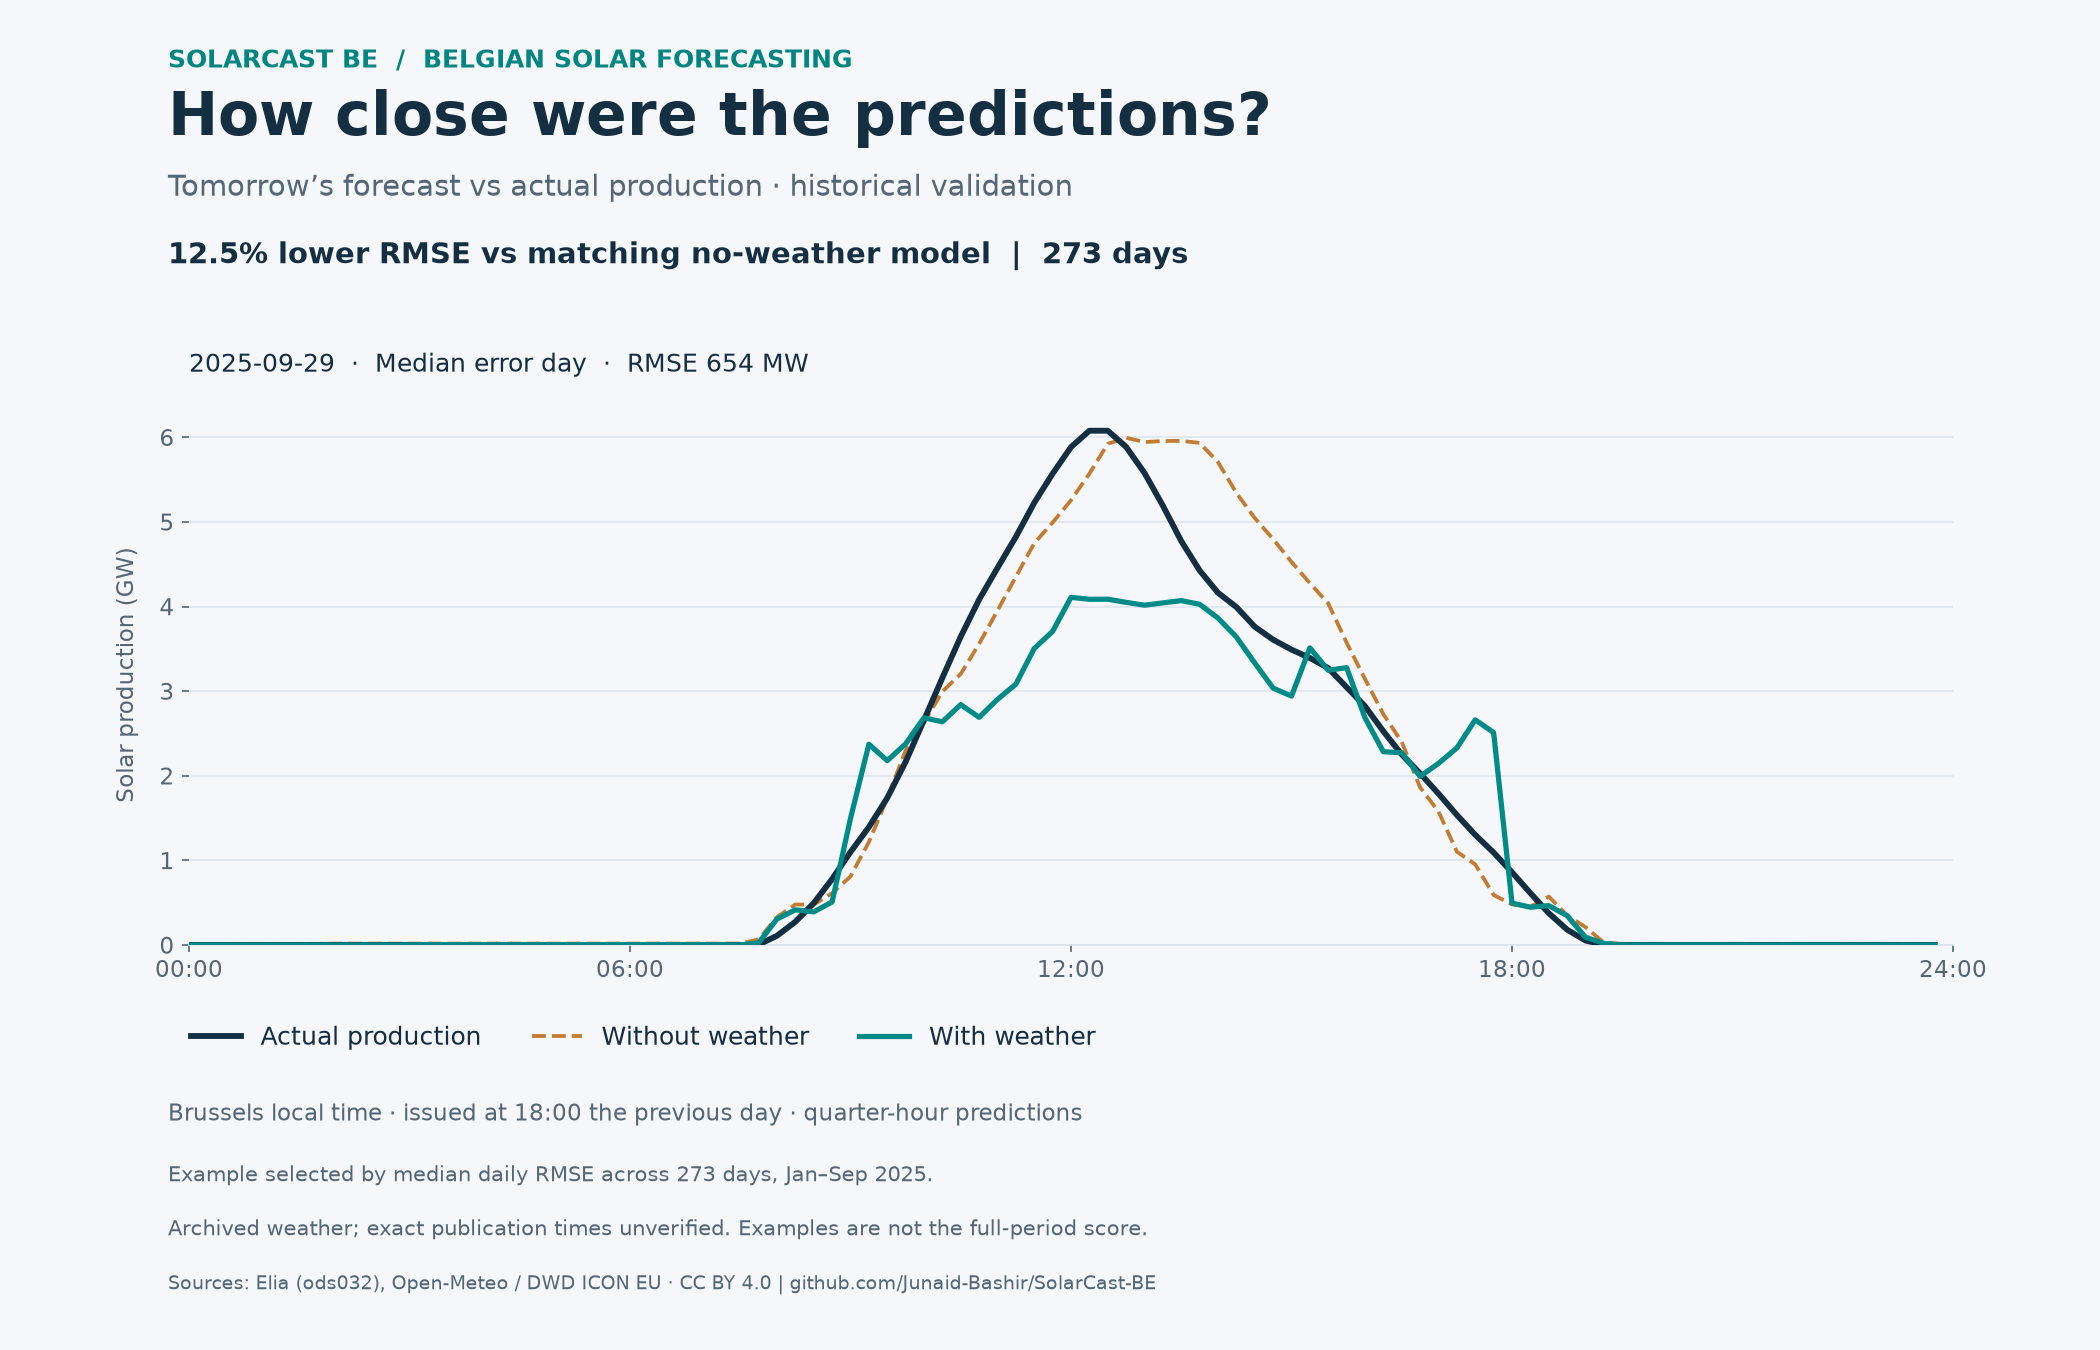
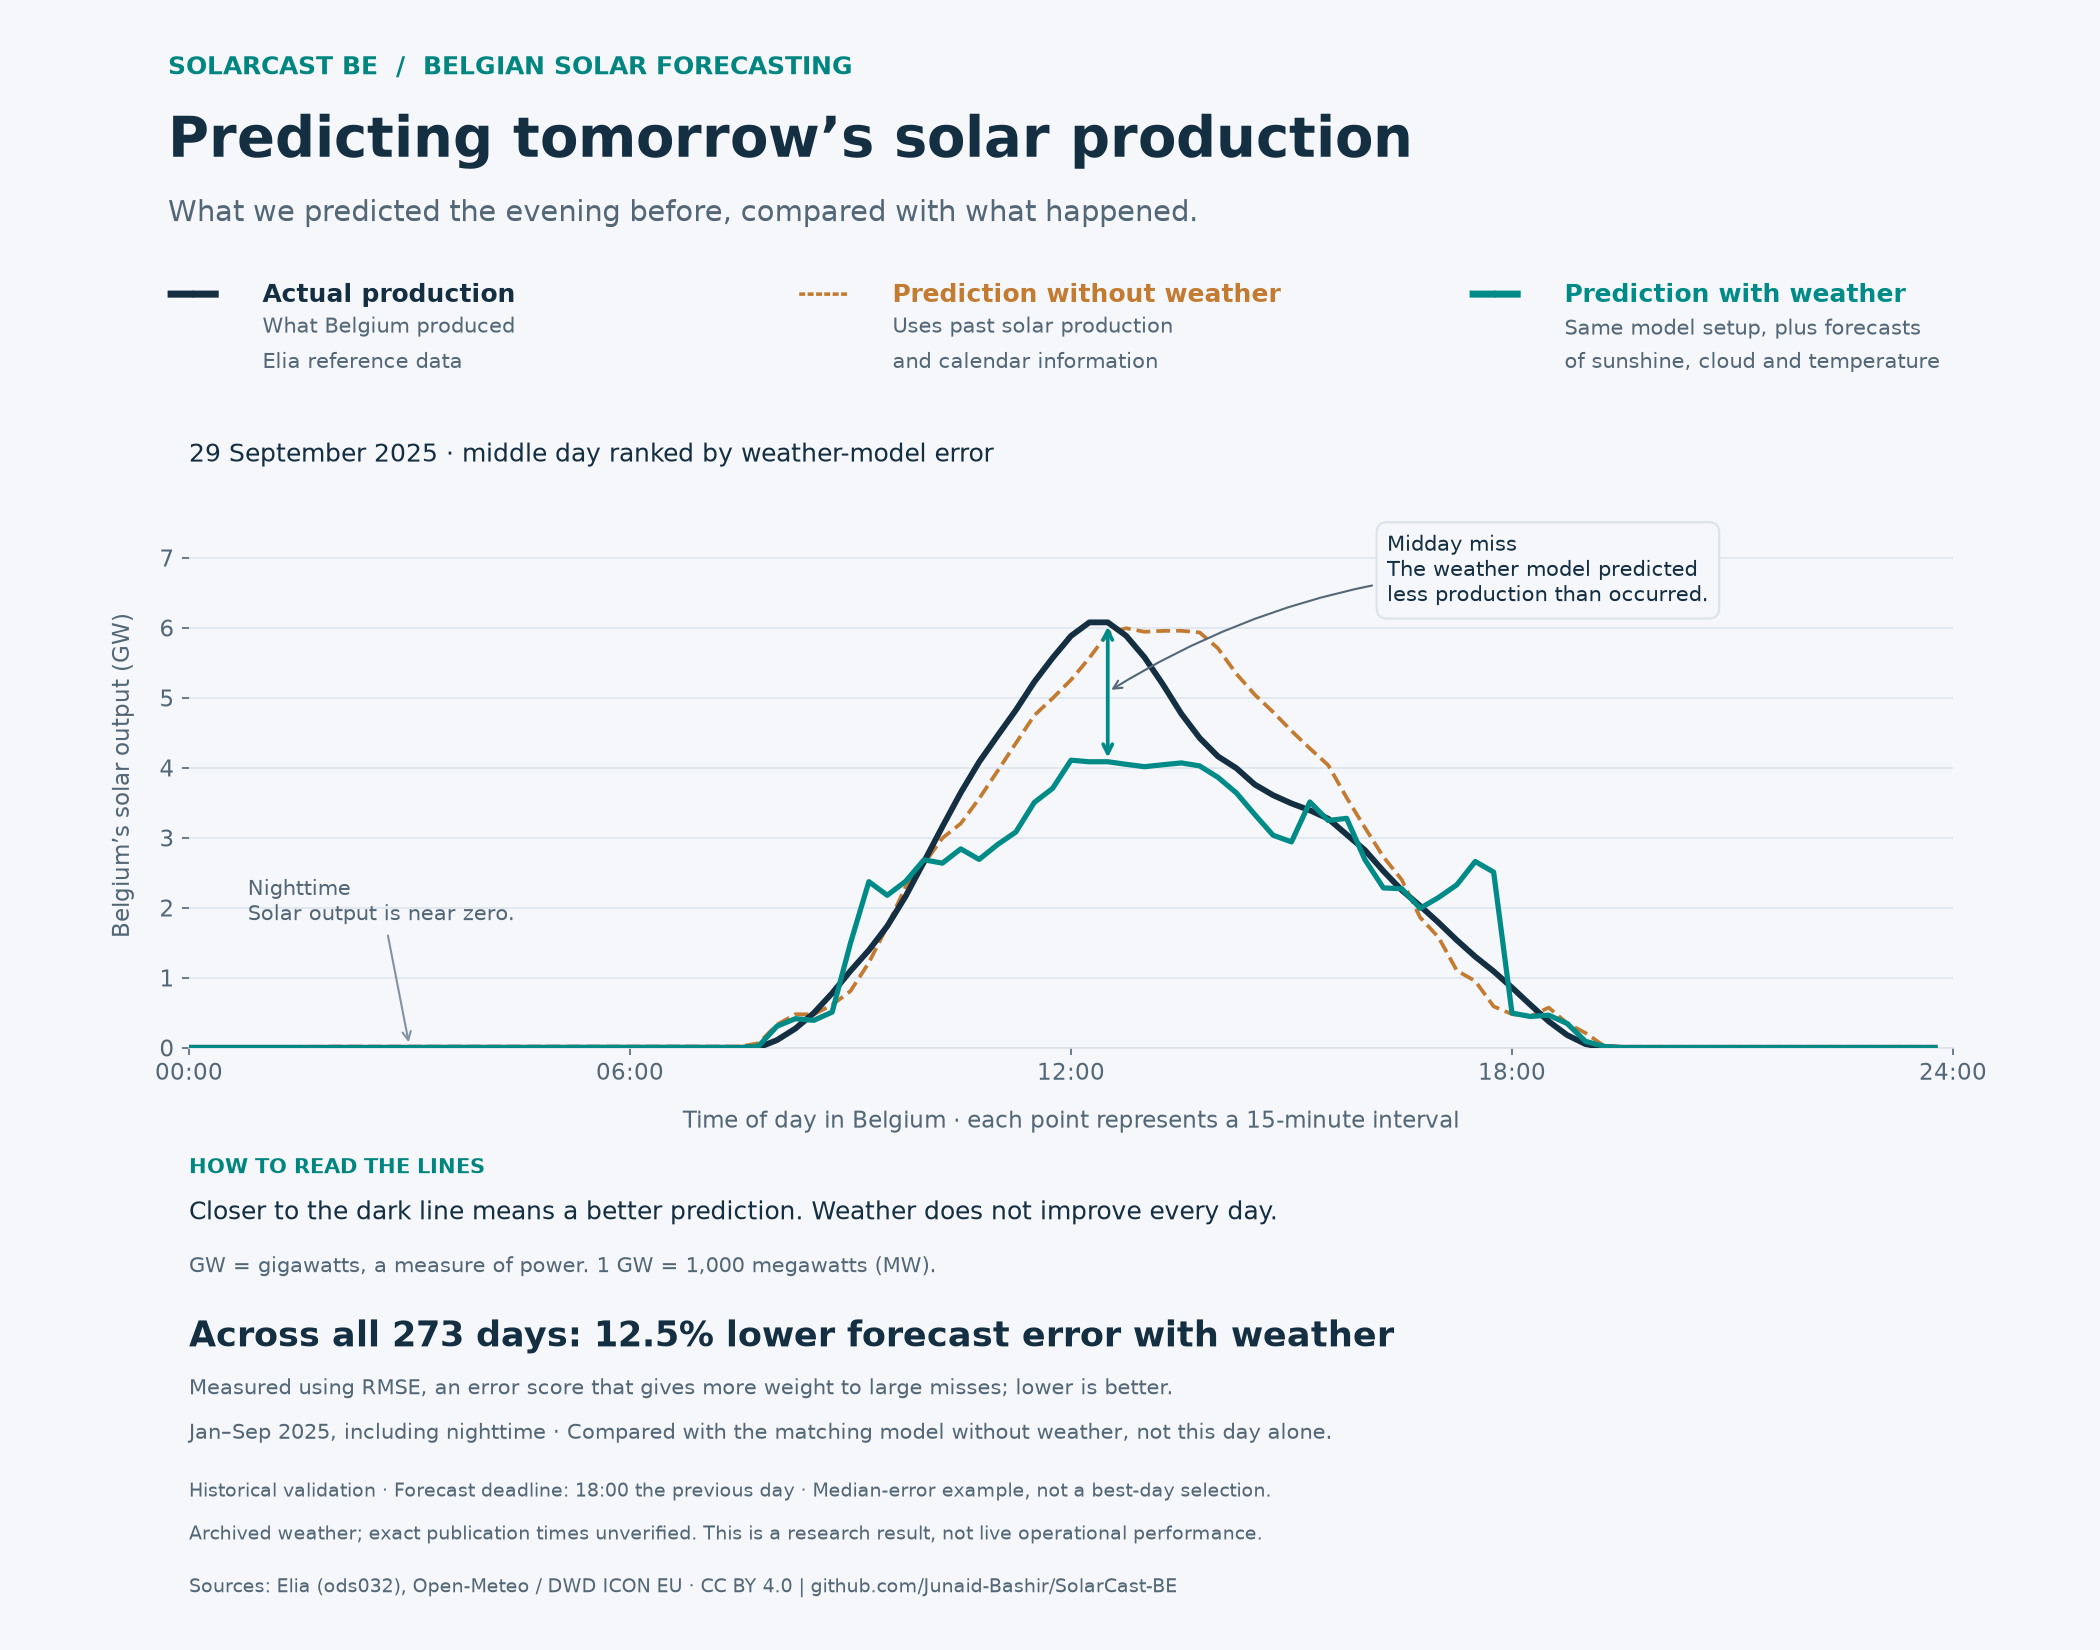
docs: explain forecast chart legends and prediction errors

diff --git a/Backend/research/plot_weather_predictions.py b/Backend/research/plot_weather_predictions.py
@@ -78,7 +78,8 @@ def render(run,output):
     plt.rcParams.update({'font.family':'DejaVu Sans','font.size':11,'text.color':'#142E42',
         'axes.labelcolor':'#536777','xtick.color':'#536777','ytick.color':'#536777',
         'axes.spines.top':False,'axes.spines.right':False,'axes.spines.left':False,'axes.edgecolor':'#DCE3E9'})
-    for filename,examples in [('weather-prediction-v1.png',[choices[1]]),('weather-prediction-range-v1.png',choices)]:
+    render_explained(report,frame,choices[1],output/'weather-prediction-v1.png')
+    for filename,examples in [('weather-prediction-range-v1.png',choices)]:
         many=len(examples)>1
         fig=plt.figure(figsize=(14,14 if many else 9),facecolor='#F5F7FA')
         fig.text(.08,.95,'SOLARCAST BE  /  BELGIAN SOLAR FORECASTING',fontsize=12,color='#008580',weight='bold')
@@ -103,6 +104,50 @@ def render(run,output):
         'days':choices,'validation_days':report['common_scored_days'],'reserved_test_plotted':False,
         'images_sha256':{name:digest(output/name) for name in ['weather-prediction-v1.png','weather-prediction-range-v1.png']}}
     return manifest
+
+
+def render_explained(report,frame,choice,output):
+    """Readable standalone explainer; all annotations use the unchanged forecasts."""
+    fig=plt.figure(figsize=(14,11),facecolor='#F5F7FA')
+    fig.text(.08,.955,'SOLARCAST BE  /  BELGIAN SOLAR FORECASTING',fontsize=12,color='#008580',weight='bold')
+    fig.text(.08,.905,'Predicting tomorrow’s solar production',fontsize=27,weight='bold')
+    fig.text(.08,.866,'What we predicted the evening before, compared with what happened.',fontsize=14,color='#536777')
+    legends=[(.08,'#142E42','Actual production','What Belgium produced\nElia reference data'),
+             (.38,'#C27B31','Prediction without weather','Uses past solar production\nand calendar information'),
+             (.70,'#008B88','Prediction with weather','Same model setup, plus forecasts\nof sunshine, cloud and temperature')]
+    for x,color,title,description in legends:
+        fig.text(x,.813,'━━' if color!='#C27B31' else '┄┄',color=color,fontsize=20,weight='bold')
+        fig.text(x+.045,.817,title,color=color,fontsize=12,weight='bold')
+        fig.text(x+.045,.777,description,fontsize=10,color='#536777',linespacing=1.6)
+    ax=fig.add_axes([.09,.365,.84,.33],facecolor='#F5F7FA')
+    panel(ax,frame,choice)
+    display_date=pd.Timestamp(choice['delivery_date']).strftime('%d %B %Y').lstrip('0')
+    ax.set_title(f'{display_date} · middle day ranked by weather-model error',loc='left',fontsize=12,pad=20)
+    ax.set_ylabel('Belgium’s solar output (GW)',labelpad=12)
+    ax.set_xlabel('Time of day in Belgium · each point represents a 15-minute interval',labelpad=12,color='#536777')
+    day=frame[(frame.delivery_date==choice['delivery_date'])&(frame.model==WEATHER)].reset_index(drop=True)
+    peak=day.actual_generation_mw.idxmax();row=day.iloc[peak]
+    local=pd.Timestamp(row.target_timestamp_utc).tz_convert('Europe/Brussels')
+    x=local.hour+local.minute/60
+    actual=float(row.actual_generation_mw)/1000;pred=float(row.predicted_generation_mw)/1000
+    ax.set_ylim(0,actual*1.28)
+    ax.annotate('',xy=(x,actual),xytext=(x,pred),arrowprops={'arrowstyle':'<->','color':'#008B88','lw':1.8})
+    ax.annotate('Midday miss\nThe weather model predicted\nless production than occurred.',
+                xy=(x,(actual+pred)/2),xytext=(16.3,actual*1.05),fontsize=10,color='#142E42',
+                arrowprops={'arrowstyle':'->','color':'#536777','connectionstyle':'arc3,rad=.15'},
+                bbox={'boxstyle':'round,pad=.5','fc':'#F5F7FA','ec':'#DCE3E9'})
+    ax.annotate('Nighttime\nSolar output is near zero.',xy=(3,0.02),xytext=(.8,actual*.30),fontsize=10,color='#536777',
+                arrowprops={'arrowstyle':'->','color':'#8193A3'})
+    fig.text(.09,.289,'HOW TO READ THE LINES',fontsize=10,color='#008580',weight='bold')
+    fig.text(.09,.261,'Closer to the dark line means a better prediction. Weather does not improve every day.',fontsize=12)
+    fig.text(.09,.229,'GW = gigawatts, a measure of power. 1 GW = 1,000 megawatts (MW).',fontsize=10,color='#536777')
+    fig.text(.09,.184,f"Across all {report['common_scored_days']} days: {report['weather_rmse_skill_vs_matched_control_pct']:.1f}% lower forecast error with weather",fontsize=17,weight='bold')
+    fig.text(.09,.155,'Measured using RMSE, an error score that gives more weight to large misses; lower is better.',fontsize=10,color='#536777')
+    fig.text(.09,.128,'Jan–Sep 2025, including nighttime · Compared with the matching model without weather, not this day alone.',fontsize=10,color='#536777')
+    fig.text(.09,.093,'Historical validation · Forecast deadline: 18:00 the previous day · Median-error example, not a best-day selection.',fontsize=9,color='#536777')
+    fig.text(.09,.067,'Archived weather; exact publication times unverified. This is a research result, not live operational performance.',fontsize=9,color='#536777')
+    fig.text(.09,.035,'Sources: Elia (ods032), Open-Meteo / DWD ICON EU · CC BY 4.0 | github.com/Junaid-Bashir/SolarCast-BE',fontsize=9,color='#536777')
+    fig.savefig(output,dpi=150,facecolor=fig.get_facecolor());plt.close(fig)
 
 
 if __name__=='__main__':

diff --git a/Shared/docs/weather-predictions.md b/Shared/docs/weather-predictions.md
@@ -15,6 +15,10 @@ production, teal is the weather-aware forecast, and dashed orange is the matched
 no-weather forecast. Weather does not improve every interval or every day; this
 example visibly misses the midday peak.
 
+The main chart includes explanatory legends, annotations for the midday miss
+and nighttime, a GW-to-MW unit explanation, and a plain-language definition of
+RMSE. The full-period result is separated from the single-day example.
+
 The **12.46% reduction** in RMSE is calculated across all 26,204 validation
 quarter-hours during January–September 2025, including nighttime, against the
 matching no-weather model. It is not the improvement on the illustrated day.
